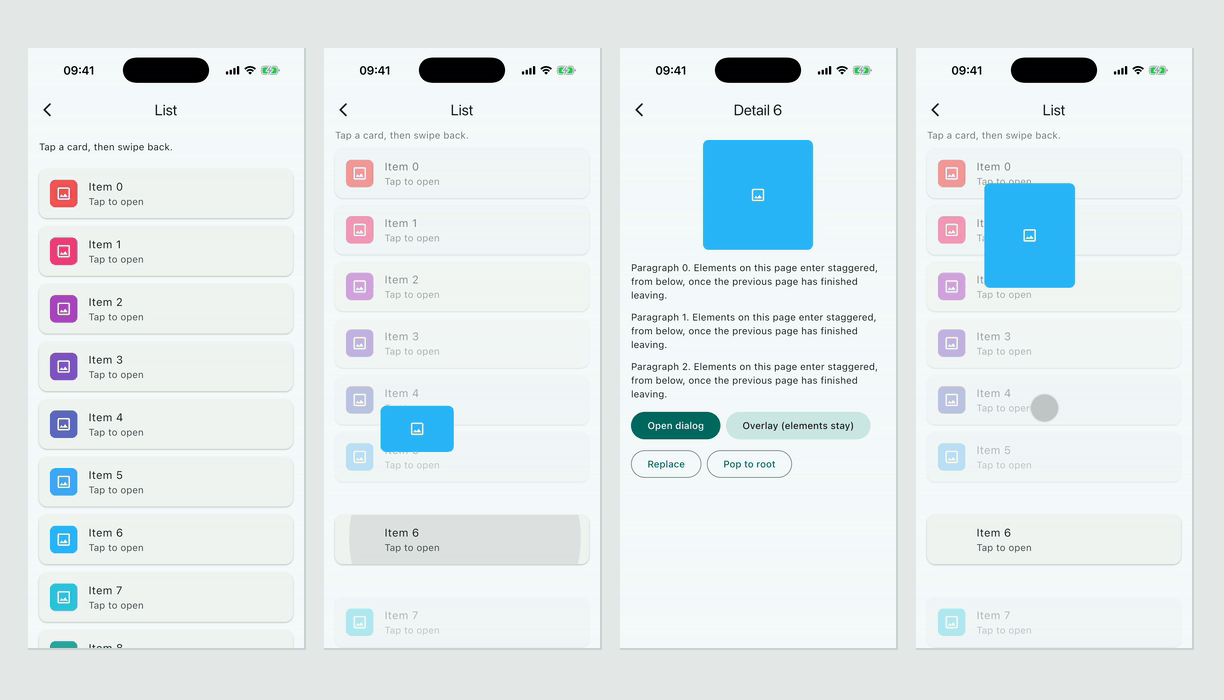
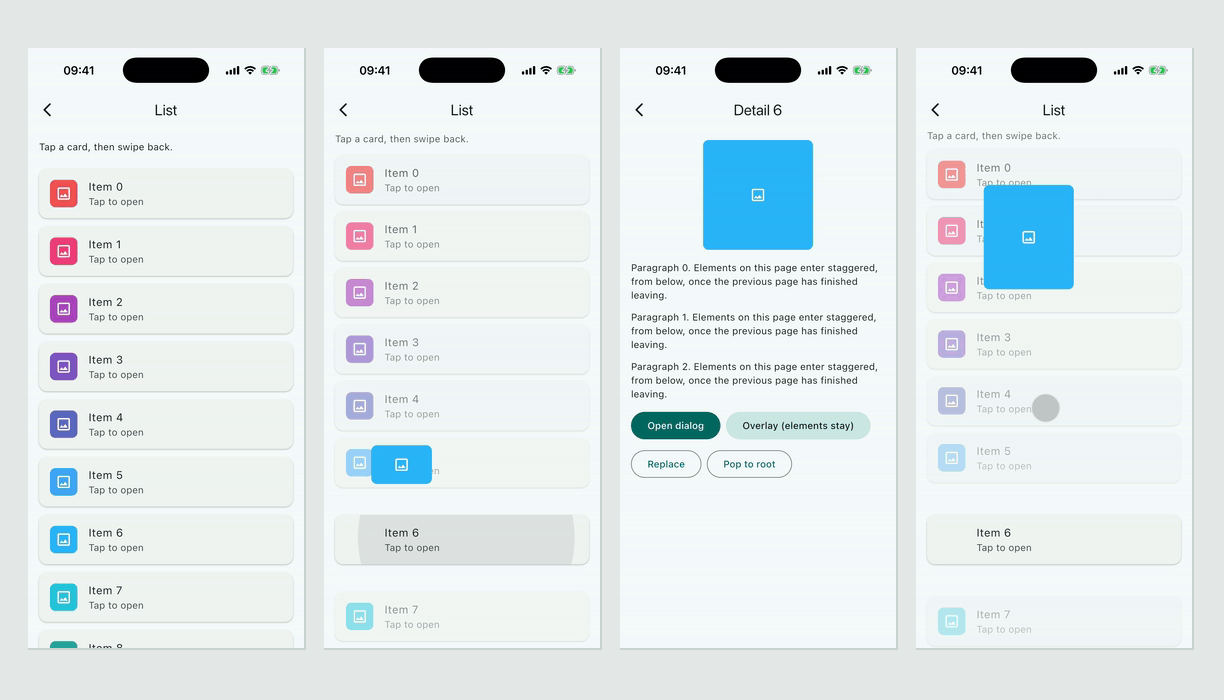
screenshots: swipe-back GIF and parting lineup from retake take5
The retake pauses the swipe at 47% width, so the parted list holds on
screen. take5 is the smoothest capture (largest frame gap 33 ms, load
3.9-4.8), replacing the take 1 checkpoint (50 ms gap, load 6.2-6.9).
GIF palette drops to 88 colours to stay under 1 MB.

diff --git a/.dev/notes/screenshots-notes.md b/.dev/notes/screenshots-notes.md
@@ -30,3 +30,6 @@ Raw captures and helper scripts live in the session scratchpad:
 
 - The brief expected an idle host, but other agents' processes (eslint, vitest in life-overview worktrees) and macOS daemons (mds, ecosystemd, mediaanalysisd) kept the 1-min load between 4.5 and 130 from 08:05 onwards. The gate waits up to 4 min per take for load < 4, then records anyway and logs the load.
 - iOS take 1 (08:47): load 6.2-6.9; largest frame gap 50 ms (one, during the push), all others <= 33 ms. Smooth in the frame-by-frame check.
+11:16 Session 2 picks up: evaluating retake take4/take5, then predictive-back on Android. Load at start 3.15.
+- 11:18 Retake evaluated. take4 (load 3.75-4.01): gaps 37 ms at 0.03 s (before the tap), 32 ms, 35 ms at 4.28 s (swipe start). take5 (load 3.93-4.80): one gap 33 ms at 2.94 s (push), all else <= 30 ms. Both frame sheets show the full flow; the pause at 47 % holds the parted list. take5 chosen: smoothest, lower load than take 1 (6.2-6.9, 50 ms gap), better pause.
+- take5 tap at ~2.85 s (touch dot first frame). GIF: -ss 2.45 -t 5.2, same recipe but max_colors=88 (96 gave 1.03 MB; 88 gives 982 KB, no visible loss). Lineup frames: 2.5 (rest), 3.02 (mid-push, parted), 3.8 (Detail 6), 5.9 (paused mid-swipe, touch dot). 3.04 rejected: ghost "Detail 6" title over the List title.
